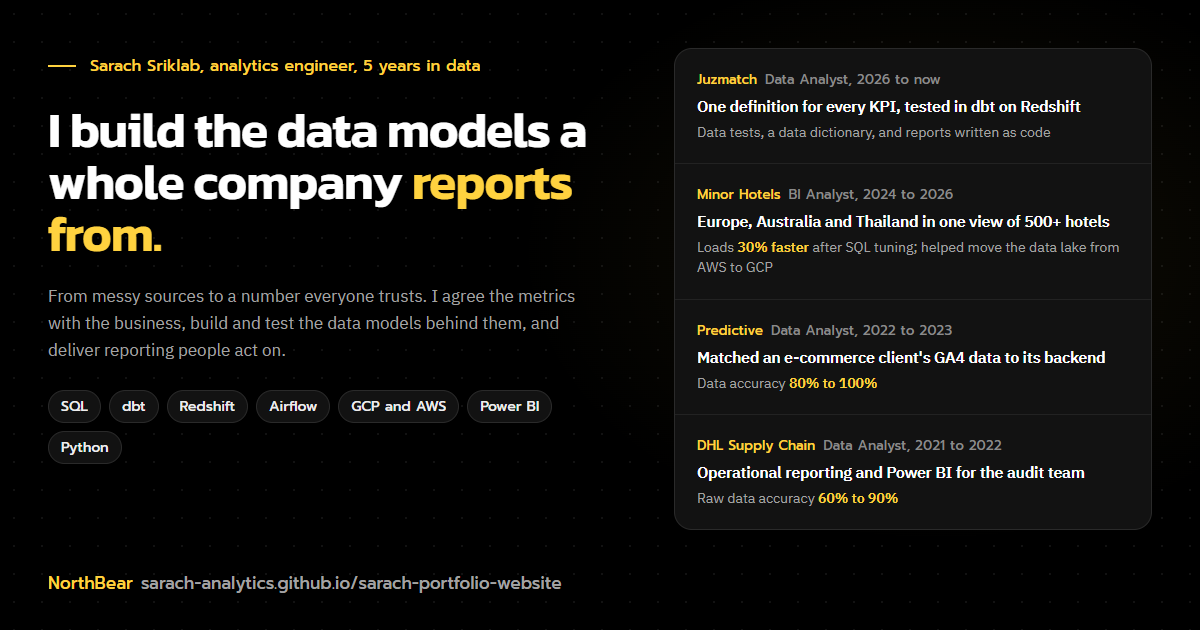
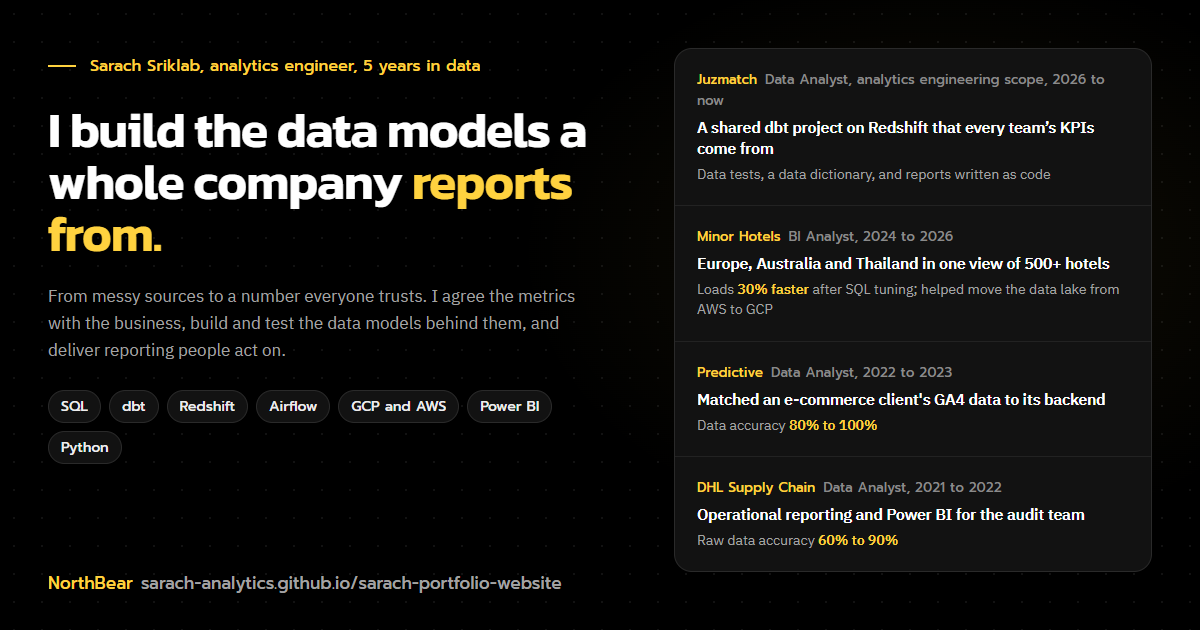
style(og): keep the homepage's Juzmatch line on the share card

Changed region(s): [[0.5858, 0.2714, 0.925, 0.8746], [0.5858, 0.1206, 0.925, 0.2413]]

diff --git a/docs/og.html b/docs/og.html
@@ -43,7 +43,7 @@
     <div class="tags"><span>SQL</span><span>dbt</span><span>Redshift</span><span>Airflow</span><span>GCP and AWS</span><span>Power BI</span><span>Python</span></div>
   </div>
   <div class="cards">
-    <div class="card"><div class="co">Juzmatch<span>Data Analyst, 2026 to now</span></div><div class="t">One definition for every KPI, tested in dbt on Redshift</div><div class="d">Data tests, a data dictionary, and reports written as code</div></div>
+    <div class="card"><div class="co">Juzmatch<span>Data Analyst, analytics engineering scope, 2026 to now</span></div><div class="t">A shared dbt project on Redshift that every team&rsquo;s KPIs come from</div><div class="d">Data tests, a data dictionary, and reports written as code</div></div>
     <div class="card"><div class="co">Minor Hotels<span>BI Analyst, 2024 to 2026</span></div><div class="t">Europe, Australia and Thailand in one view of 500+ hotels</div><div class="d">Loads <b>30% faster</b> after SQL tuning; helped move the data lake from AWS to GCP</div></div>
     <div class="card"><div class="co">Predictive<span>Data Analyst, 2022 to 2023</span></div><div class="t">Matched an e-commerce client's GA4 data to its backend</div><div class="d">Data accuracy <b>80% to 100%</b></div></div>
     <div class="card"><div class="co">DHL Supply Chain<span>Data Analyst, 2021 to 2022</span></div><div class="t">Operational reporting and Power BI for the audit team</div><div class="d">Raw data accuracy <b>60% to 90%</b></div></div>
